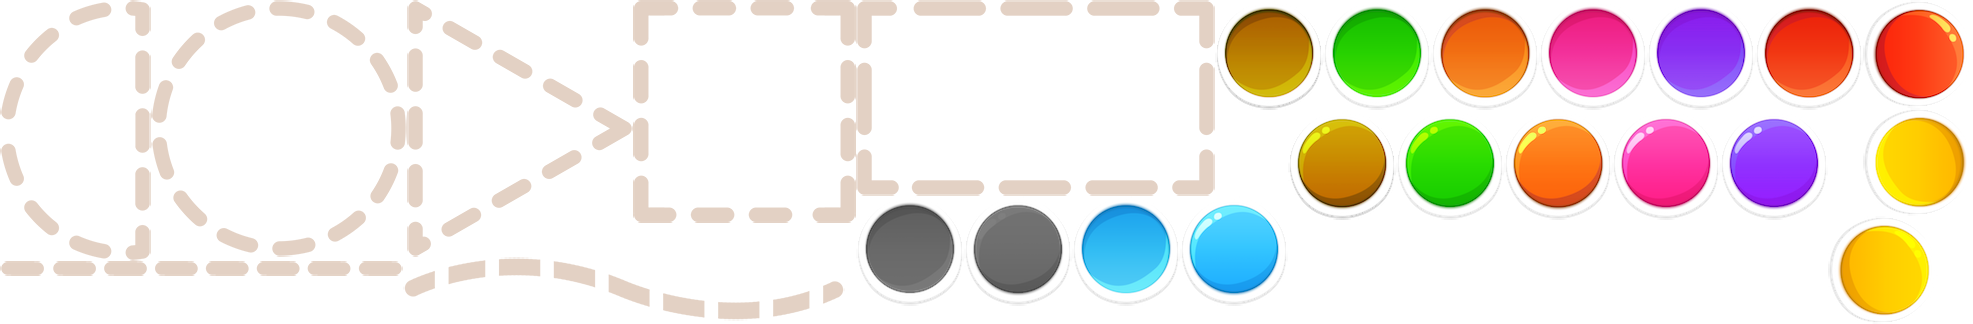
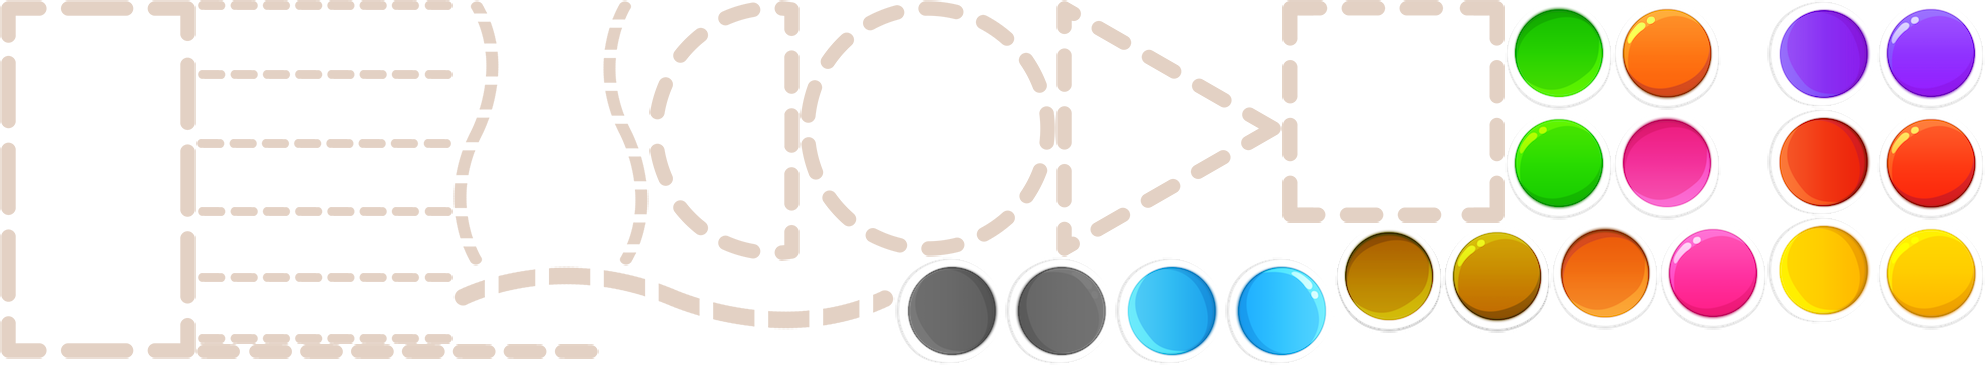
done figure game at both step are stucking

diff --git a/src/layers/Alphabet/GoFigureTestLayer.js b/src/layers/Alphabet/GoFigureTestLayer.js
@@ -203,19 +203,10 @@ var GoFigureTestLayer = TestLayer.extend({
                     self._tmpRender.getSprite().color = cc.color("#333333");
                     if (self.checkChangingCharacter()) {
                         var correctedCharacter = self._currentChar;
-                        if (self.checkChangingWord()){
-                            cc.log("pass checkChangingWord");
-                            self._changeWord();
-                            self._touchCounting++;
-                            self.updateProgressBar();
-                        } else {
-                            cc.log("not pass, _moveToNextShape");
-                            self._moveToNextShape();
-                        }
-                        // self._nameIdx++;
-                        // self._changeWord();
-                        // self._touchCounting++;
-                        // self.updateProgressBar();
+                        self._nameIdx++;
+                        self._changeWord();
+                        self._touchCounting++;
+                        self.updateProgressBar();
                         self._correctAction(correctedCharacter);
                     } else {
                         self._displayFinger();
@@ -361,7 +352,7 @@ var GoFigureTestLayer = TestLayer.extend({
     checkChangingCharacter: function() {
         if (this._pathIdx >= this._currentCharConfig.paths.length)
         {
-            // cc.log("checkChangingCharacter");
+            cc.log("checkChangingCharacter");
             this._segmentTracking("true");
             // next char
             this._charIdx++;
@@ -374,7 +365,7 @@ var GoFigureTestLayer = TestLayer.extend({
     },
 
     checkChangingWord: function() {
-        // cc.log("checkChangingWord this._charIdx: " + this._charIdx + " - " + this._writingWords[this._nameIdx].length);
+        cc.log("checkChangingWord this._charIdx: " + this._charIdx + " - " + this._writingWords[this._nameIdx].length);
         if (this._charIdx >= this._writingWords[this._nameIdx].length) {
             // cc.log("return true on checkChangingWord");
             this._charIdx = 0;
@@ -500,49 +491,34 @@ var GoFigureTestLayer = TestLayer.extend({
     },
 
     _displayWord: function() {
-        cc.log("_displayWord");
-        cc.log("this._currentCharConfig: " + JSON.stringify(this._currentCharConfig));
+        // cc.log("_displayWord");
+        // cc.log("this._currentCharConfig: " + JSON.stringify(this._currentCharConfig));
         if (this._characterNodes.length > 0) {
             this._characterNodes.forEach(function(obj) {obj.removeFromParent();});
         }
         this._characterNodes = [];
 
         var objName = this._writingWords[this._nameIdx];
-        cc.log("objName: " + objName);
-        cc.log("objName: " + JSON.stringify(objName));
+        // cc.log("objName: " + objName);
+        // cc.log("objName: " + JSON.stringify(objName));
         // cc.log("_nameIdx: " + this._nameIdx);
         this._wordScale = 1;
         var optionIdx = (this._option) ? this._option.index : 1;
         var charArrays = [];
         var totalWidth = 0;
         var totalWords = (Array.isArray(objName)) ? objName.length : 1;
-        cc.log("totalWords: " + totalWords);
-        for (var i = 0; i < totalWords; i++) {
-            var name = (totalWords > 1) ? objName[i] : objName;
-            var s = new cc.Sprite("#" + name + ".png");
-            for (var j = 0; j < optionIdx.length; j++) {
-                var opt = optionIdx[j];
-                cc.log("opt: " + opt);
-                cc.log("this._nameIdx: " + this._nameIdx);
-                if (opt == this._nameIdx) {
-                    if (i%2 == 0) {
-                        s.flippedX = true;
-                    }
-                    s.rotation = 90;
-                }
-            }
-            this.addChild(s);
+        // cc.log("totalWords: " + totalWords);
+        var s = new cc.Sprite("#" + objName + ".png");
+        this.addChild(s);
 
-            this._characterNodes.push(s);
-            totalWidth += s.width;
-            // totalWidth -= CHAR_SPACE;
-            if (totalWidth > cc.winSize.width * 0.7)
-                this._wordScale = Math.min(this._wordScale, cc.winSize.width * 0.7/totalWidth);
+        this._characterNodes.push(s);
+        totalWidth += s.width;
+        if (totalWidth > cc.winSize.width * 0.7)
+            this._wordScale = Math.min(this._wordScale, cc.winSize.width * 0.7/totalWidth);
 
-            s.scale = this._wordScale;
-            s.x = cc.winSize.width * 0.65 - totalWidth/2 * this._wordScale + s.width/2 * this._wordScale - 10;
-            s.y = cc.winSize.height/2 * Utils.getScaleFactorTo16And9();
-        }
+        s.scale = this._wordScale;
+        s.x = cc.winSize.width * 0.65 - totalWidth/2 * this._wordScale + s.width/2 * this._wordScale - 10;
+        s.y = cc.winSize.height/2 * Utils.getScaleFactorTo16And9();
 
 
         // for (var j = 1; j < charArrays[i].length; j++) {
@@ -617,8 +593,9 @@ var GoFigureTestLayer = TestLayer.extend({
         this._finger.stopAllActions();
         this._finger.opacity = 0;
         // cc.log("_displayFinger pathIdx: " + this._pathIdx);
+        cc.log("this._pathIdx: " + this._pathIdx);
+        cc.log("this._currentCharConfig.paths: " + JSON.stringify(this._currentCharConfig.paths));
         var pathCfg = this._currentCharConfig.paths[this._pathIdx];
-
         var actions = [];
 
         actions.push(cc.moveTo(0, this.convertToWSpace(this.convertScaledPath(pathCfg[0]))));

diff --git a/src/SpeechRecognitionListener.js b/src/SpeechRecognitionListener.js
@@ -3,8 +3,9 @@ var SpeechRecognitionListener = cc.Class.extend({
 
     ctor: function() {
         // cc.log(JSON.stringify(FOREST_ITEMS.concat(BEDROOM_ITEMS)));
+        cc.log(JSON.stringify(NUMBER_ITEMS));
 
-        var itemArray = FOREST_ITEMS.concat(BEDROOM_ITEMS).map(function(obj) {
+        var itemArray = FOREST_ITEMS.concat(BEDROOM_ITEMS).concat(NUMBER_ITEMS).map(function(obj) {
             return obj.imageName;
         });
 
@@ -14,7 +15,7 @@ var SpeechRecognitionListener = cc.Class.extend({
             return obj;
         });
 
-        cc.log("SpeechRecognitionListener:" + JSON.stringify(itemArray));
+        // cc.log("SpeechRecognitionListener:" + JSON.stringify(itemArray));
 
         NativeHelper.callNative("changeSpeechLanguageArray", [JSON.stringify(itemArray)]);
     },
@@ -31,6 +32,15 @@ var SpeechRecognitionListener = cc.Class.extend({
         text = text.replace(/ /g,'');
         cc.log("onResult: " + text);
         cc.log("currentObjectName." + this._speakingLayer.currentObjectName.toUpperCase());
+
+        NUMBER_ITEMS.map(function(obj) {
+            if (obj.value == text) {
+                text = obj.imageName;
+                return;
+            }
+
+        });
+
         this._speakingLayer.resultText = text.toUpperCase();
         if (this._speakingLayer.currentObjectName.toUpperCase() == text) {
             cc.log("success");

diff --git a/src/Config.js b/src/Config.js
@@ -27,6 +27,7 @@ var FOREST_SNAIL_POSITION = [];
 var FOREST_CROCODILE_POSITION = [];
 var FOREST_EAGLE_POSITION = [];
 var FOREST_SHARK_POSITION = [];
+var NUMBER_ITEMS = [];
 var FOREST_BACKGROUND_ITEMS_POSITION = [
     {
         x: 668,
@@ -430,6 +431,17 @@ ConfigStore.setupInstance = function (configOnce) {
             cc.fileUtils.removeFile(Utils.getAssetsManagerPath() + res.Writing_config_JSON);
             cc.loader.loadJson(res.Writing_config_JSON, function(err, data) {
                 WRITING_TEST_CONFIG = data;
+            });
+        }
+    });
+
+    cc.loader.loadJson(res.Number_Config_JSON, function(err, data) {
+        if (!err) {
+            NUMBER_ITEMS = data.items;
+        } else {
+            cc.fileUtils.removeFile(Utils.getAssetsManagerPath() + res.Number_Config_JSON);
+            cc.loader.loadJson(res.Number_Config_JSON, function(err, data) {
+                NUMBER_ITEMS = data.items;
             });
         }
     });

diff --git a/src/layers/Alphabet/MapLayer.js b/src/layers/Alphabet/MapLayer.js
@@ -153,7 +153,7 @@ var MapLayer = cc.Layer.extend({
             return;
         cc.loader.loadJson(dataPath, function(err, data){
             cc.log("err: " + err);
-            if (!err) {
+            if (!err && data) {
                 stepData = data;
                 // cc.log("self._data " + JSON.stringify(data));
                 var totalGameInStep = Object.keys(stepData).length;

diff --git a/src/resource.js b/src/resource.js
@@ -66,6 +66,7 @@ var res = {
     Updated_config_JSON: "config/updated.json",
     Game_Object_JSON: "config/game_object.json",
     Map_Data_JSON: "config/map/map.json",
+    Number_Config_JSON: "config/number.json",
 
     forest_jpg : "res/forest.jpg",
     room_jpg: "Bedroom-screen.jpg",
